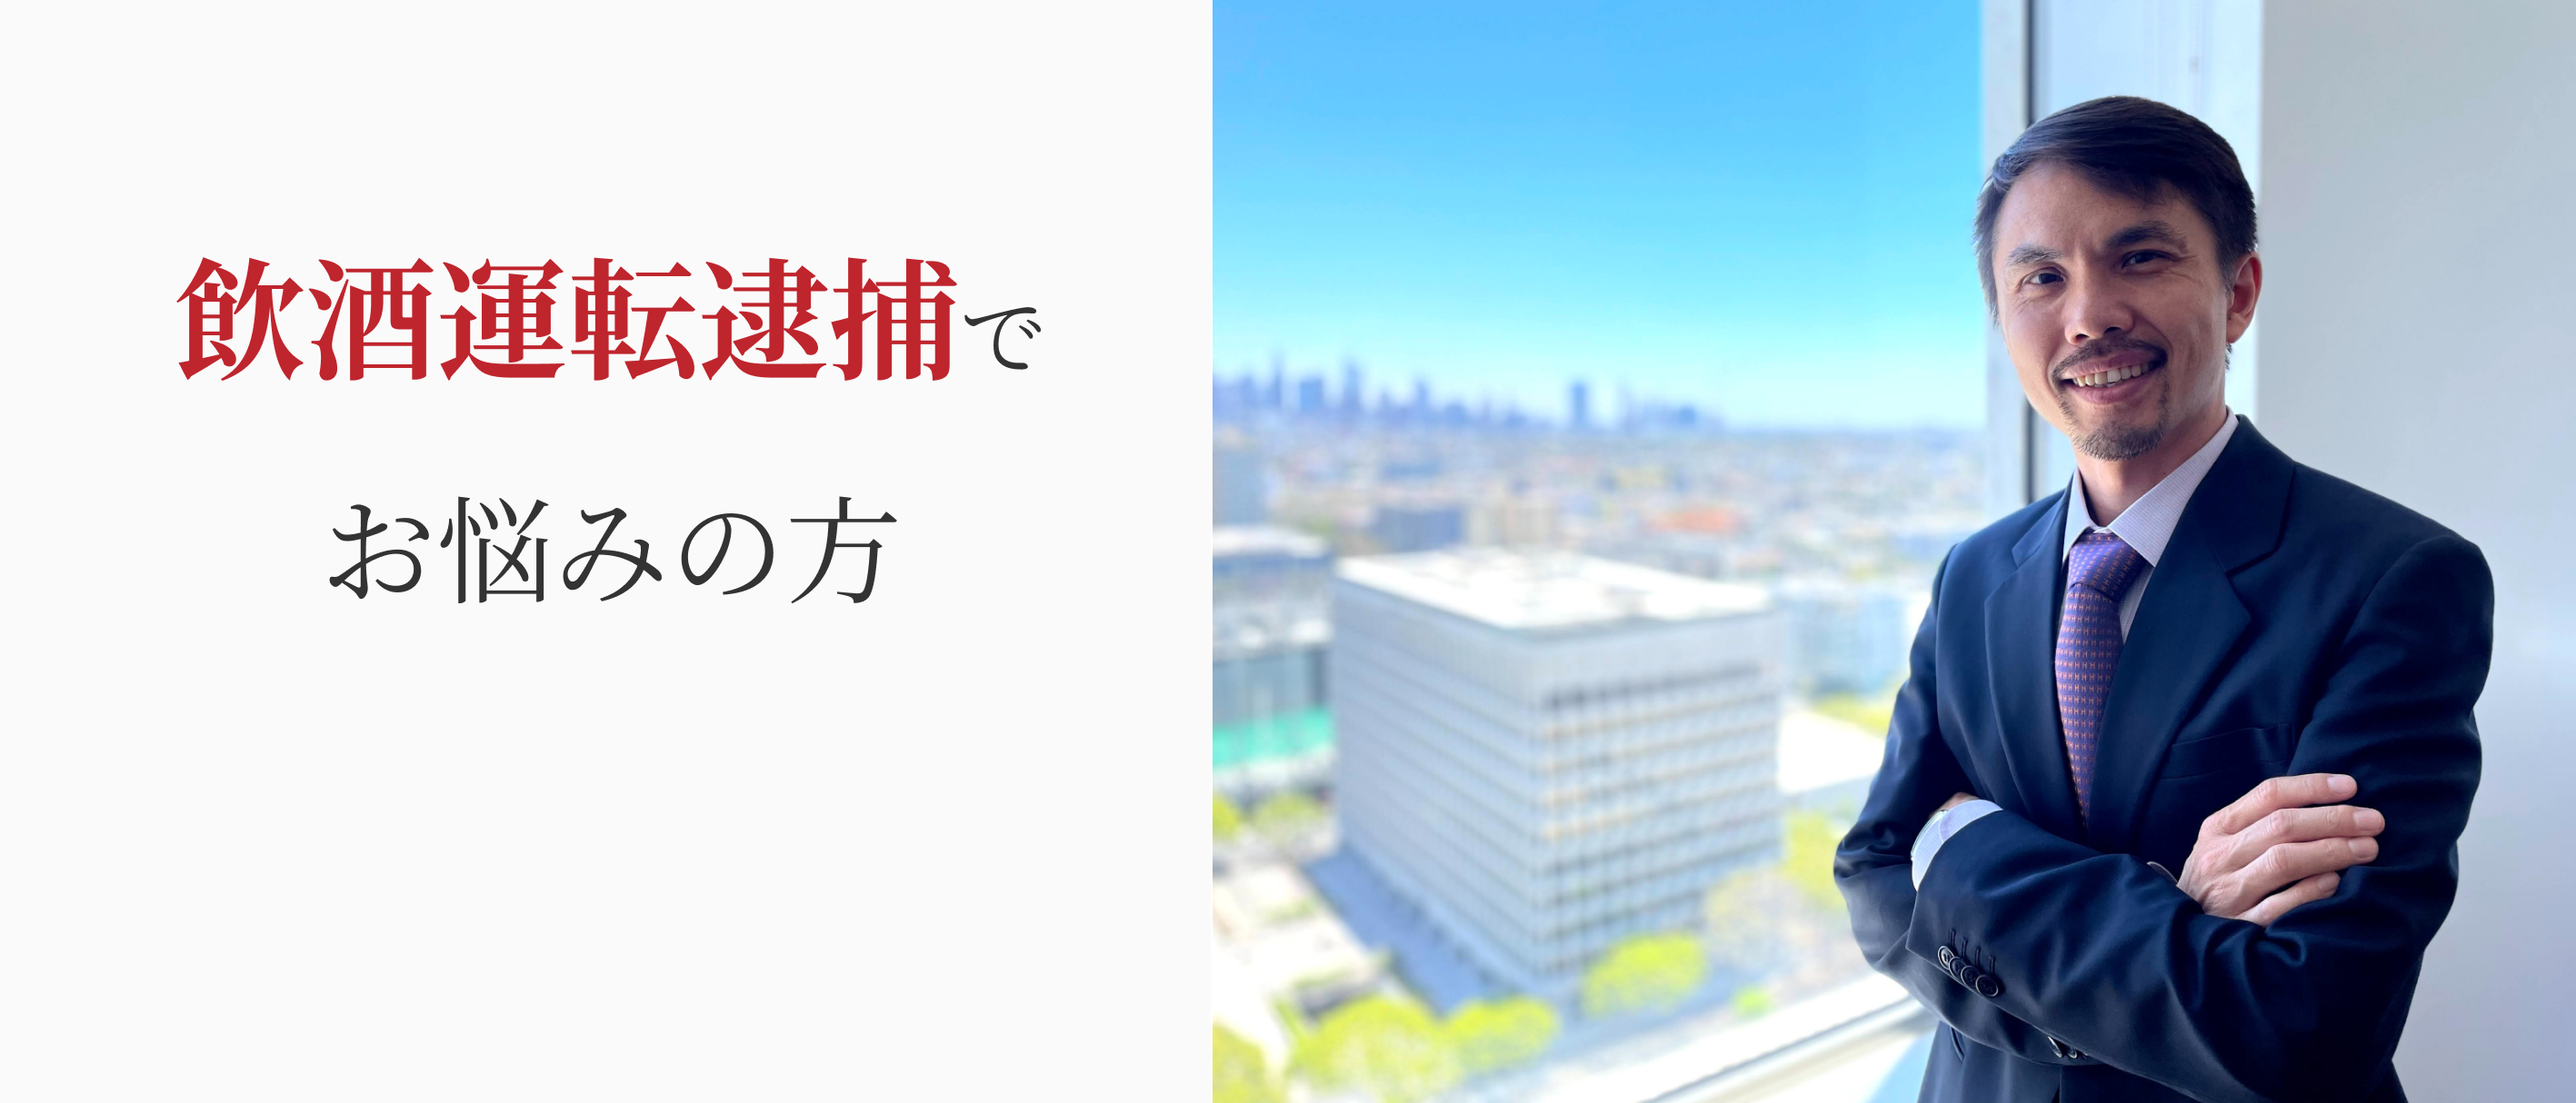
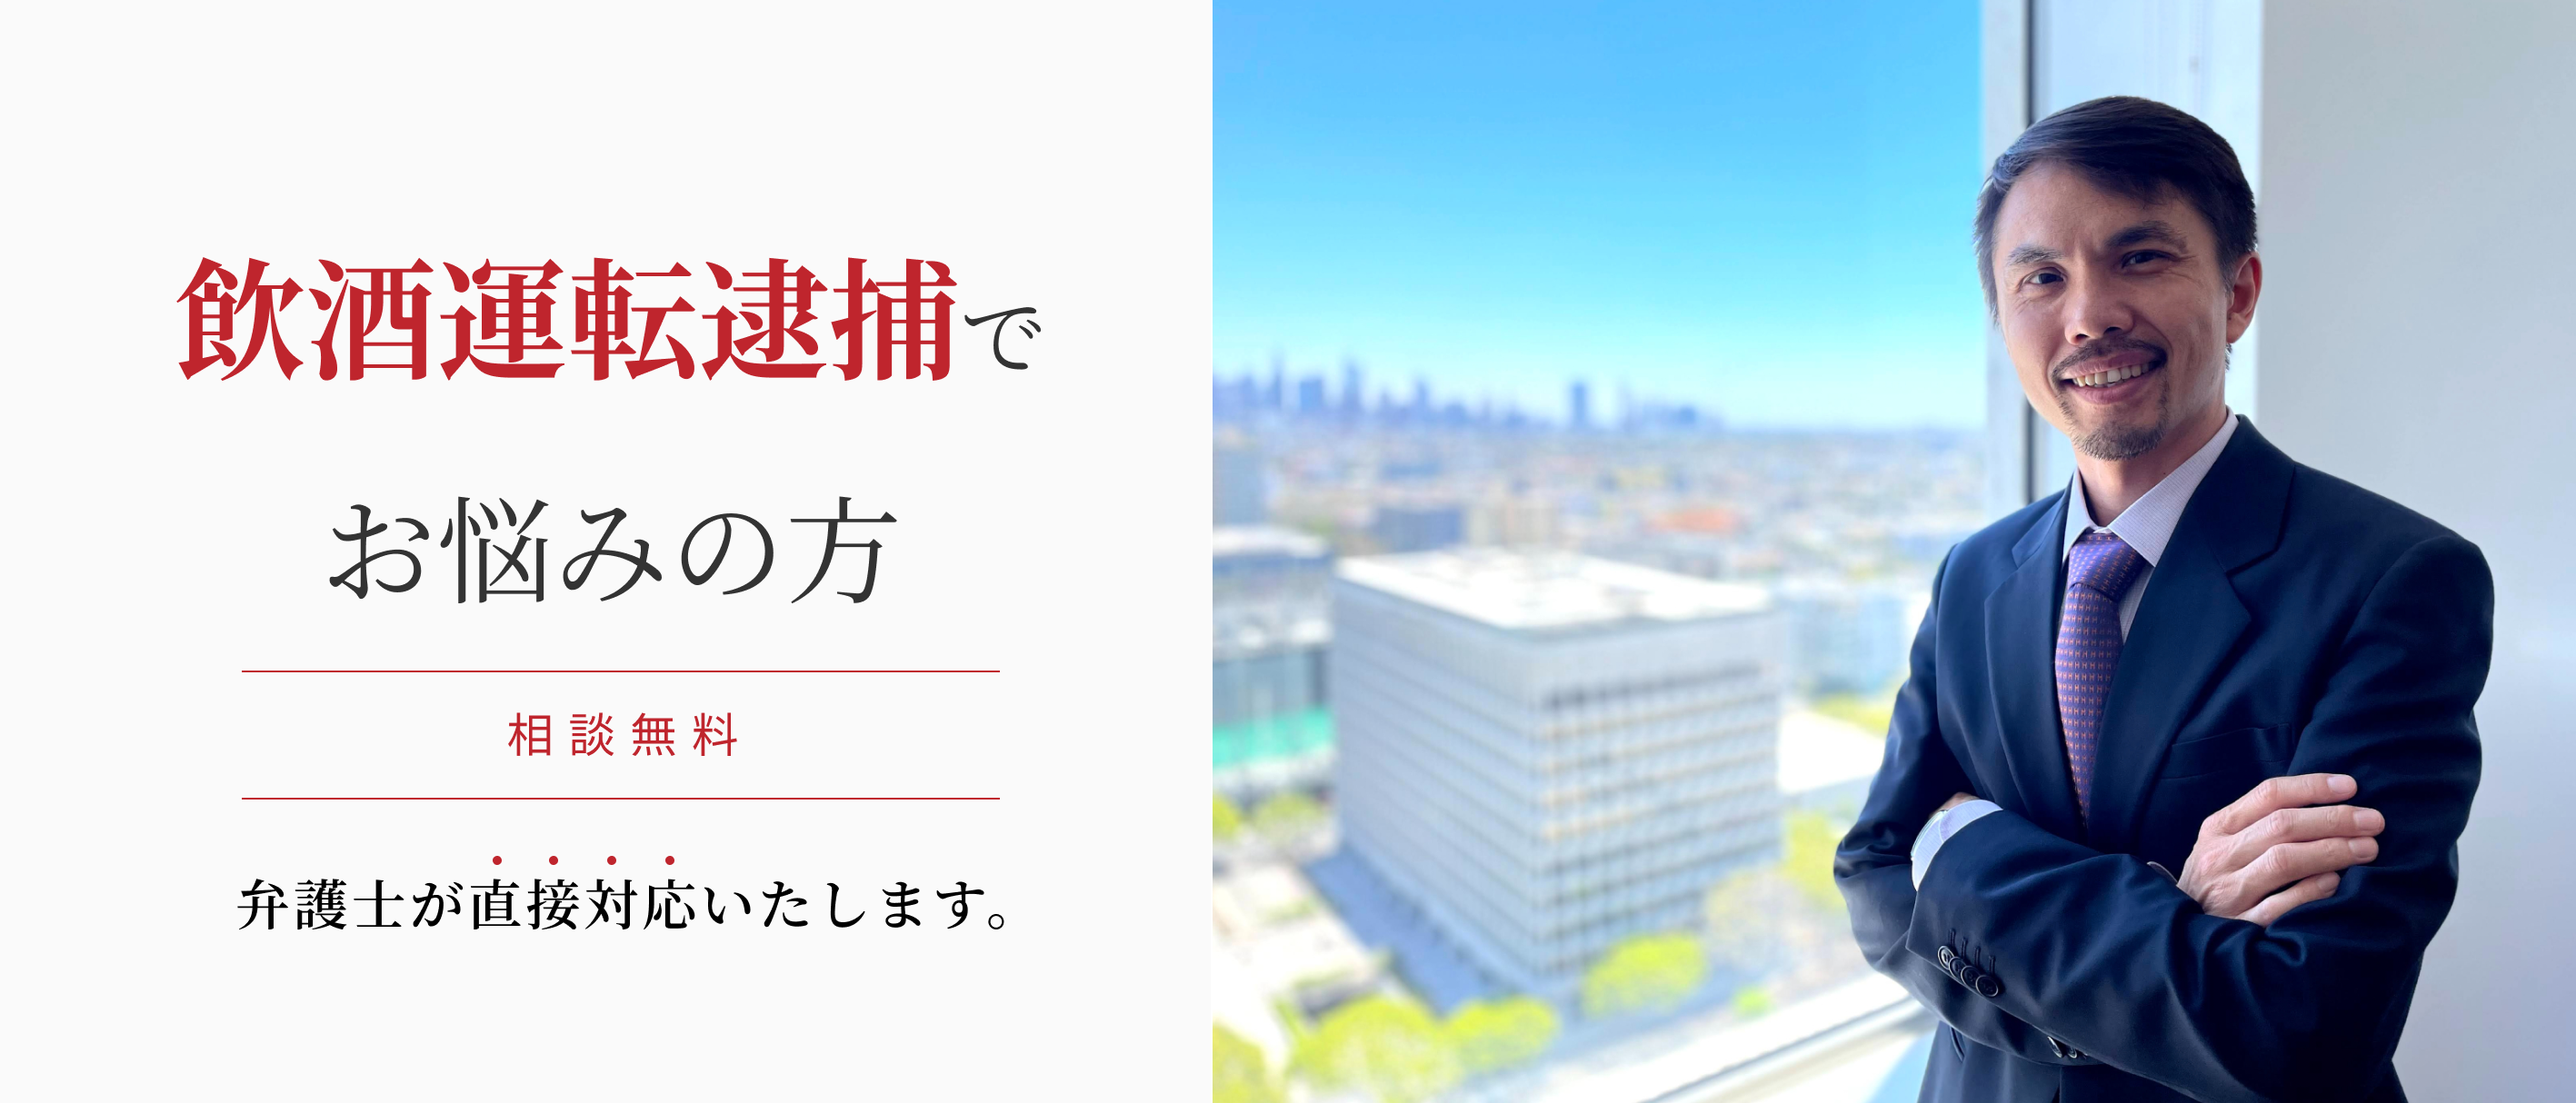
レスポンシブconsult

Changed region(s): [[0.0932, 0.7924, 0.3726, 0.8534], [0.1863, 0.64, 0.2795, 0.701]]

diff --git a/index.html b/index.html
@@ -31,7 +31,7 @@
       </div>
     </header>
 
-    <main>
+    <main class="container">
       <section>
         <h1>
           <img class="w-100 d-md-none" src="img/maincatch_sp.png" alt="飲酒運転でお悩みの方、弁護士が直接対応します。" />
@@ -41,21 +41,24 @@
       </section>
 
       <section class="consult_connect">
-        <div class="consult_connect_text font-noto">DUI専門弁護士ジェフ・ヨウ<br />までお気軽にご相談ください</div>
+        <div class="consult_connect_text font-noto">DUI専門弁護士ジェフ・ヨウ<br class="d-md-none" />までお気軽にご相談ください</div>
 
         <div class="consult_connect_links">
-          <div class="consult_connect_call">
-            <a href="tel:+213-446-2495">
-              <span class="consult_connect_call_language">日本語対応可</span>
-              <br />
-              <span class="consult_connect_call_number">(213)446-2495</span>
-            </a>
+          <div class="d-md-flex">
+            <div class="consult_connect_call">
+              <a href="tel:+213-446-2495">
+                <span class="consult_connect_call_language">日本語対応可</span>
+                <br />
+                <span class="consult_connect_call_number">(213)446-2495</span>
+              </a>
+            </div>
+            <div class="consult_connect_form">
+              <a href="#contact">
+                <img src="img/consult_connect_form_btn.png" alt="お問い合わせフォーム" />
+              </a>
+            </div>
           </div>
-          <div class="consult_connect_form">
-            <a href="#contact">
-              <img src="img/consult_connect_form_btn.png" alt="お問い合わせフォーム" />
-            </a>
-          </div>
+
           <div class="consult_connect_line">
             <a href="https://lin.ee/AkPT2na">
               <img src="img/consult_connect_line_btn.png" alt="ラインで相談する" />

diff --git a/css/main.css b/css/main.css
@@ -107,15 +107,17 @@ span.logo-title-text1 {
   padding: 0.2rem 0 0.5rem 0;
 }
 
+.consult_connect_call a {
+  color: #000;
+}
+
 .consult_connect_call_language {
-  color: #12274c;
   font-size: 0.5rem;
   padding: 0.1rem;
   border: solid 0.02rem;
 }
 
 .consult_connect_call_number {
-  color: #12274c;
   font-size: 2rem;
   font-family: serif;
 }
